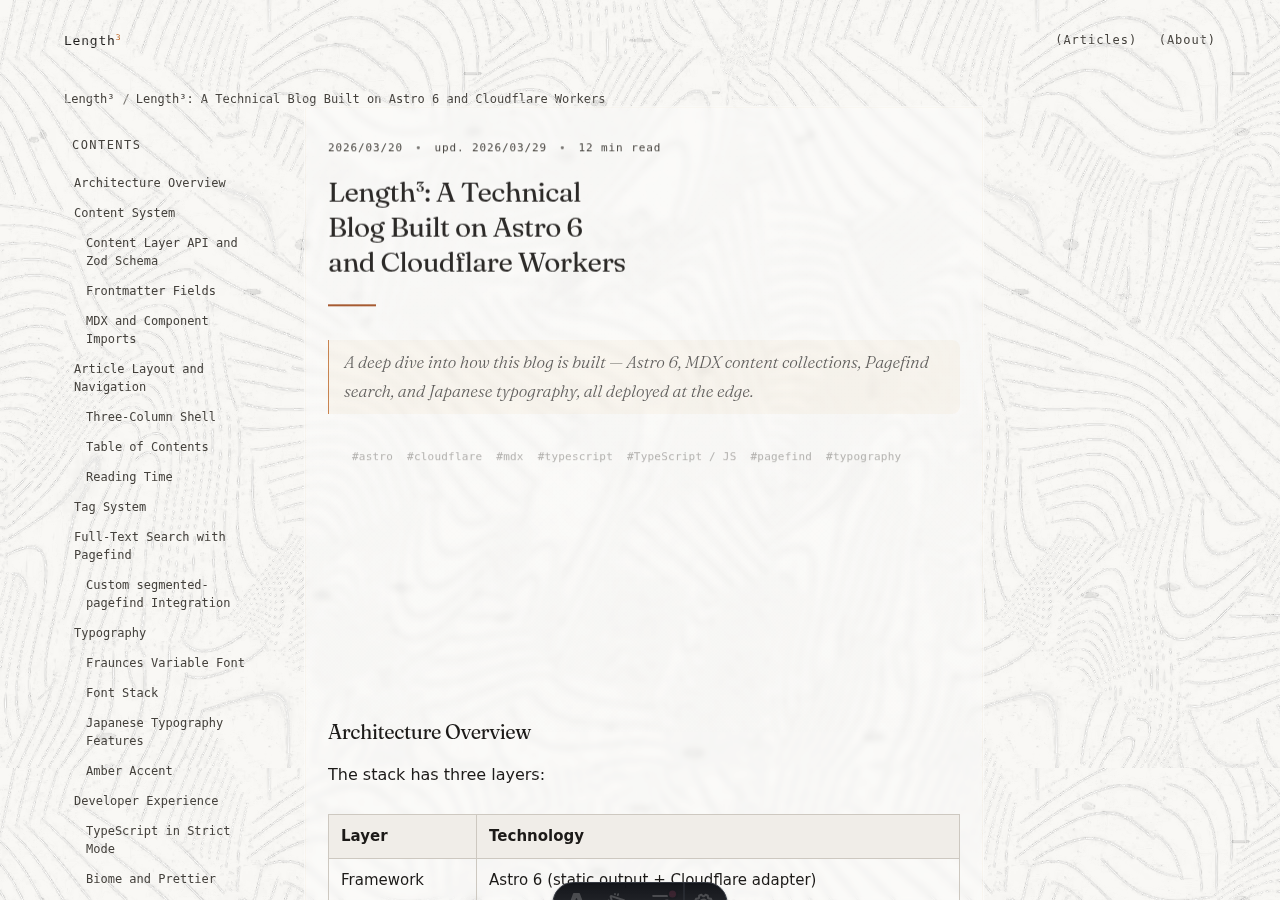
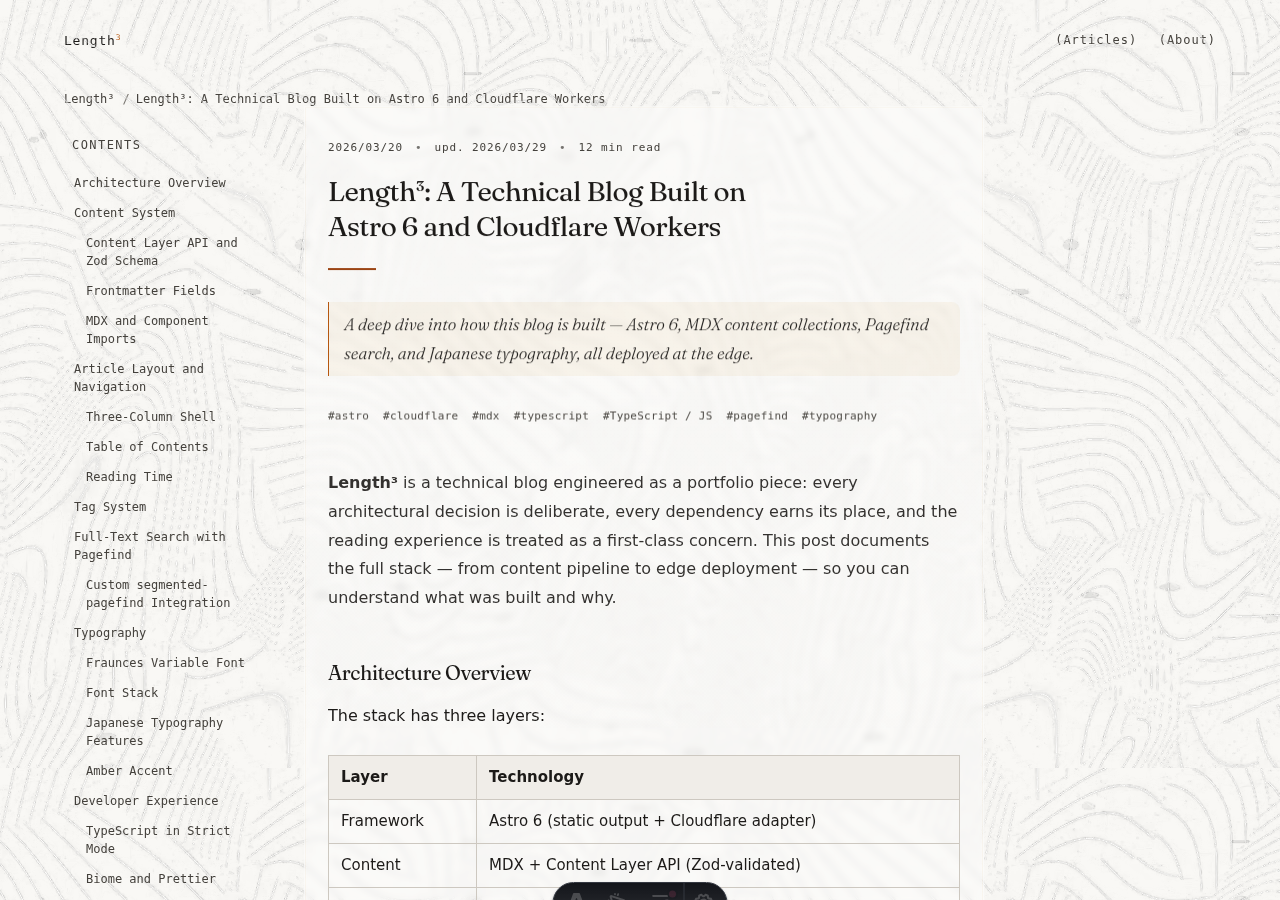
Align the article header with its column and stop the layout wobble
背景テクスチャには触れず、版面まわりに残っていたずれを直す。

- 記事 H1 の `max-width: 22ch` を外した。ch は「0」の字幅なので Fraunces で
  22ch = 308px、全角なら 11 字にしかならない。本文が 632px で組まれている
  横でタイトルだけが列の半分の幅に収まり、和文タイトルが 4〜5 行へ折り返して
  いた（実測 140px → 70px の 2 行）。字数の制御は列幅と balance に任せる
- 記事ヘッダのタグ行が本文より 24px 右にずれていた。<ul> なので
  `.prose ul` の 1.5rem インデントを受けており、prose レイヤーは layout
  より後なので打ち消しも同じレイヤーに置く。下マージンも本文用の 24px が
  効いていたので、ヘッダ末尾の余白はヘッダ自身の padding だけに揃えた
- パンくずが body の縦 flex 内で shrink-to-fit になり、タグページでは
  `margin-inline: auto` で中央寄せの短冊になっていた（x=586、本文は x=324）。
  幅を宣言して版面に揃え、--measure のページ用に修飾子を足した
- パンくずを 1 行に固定した。390px では折り返して "Length³" だけが 1 行目に
  残り、現在地が 2 行目へ落ちていた。溢れは既存の省略で吸収する
- 記事ページの右余白が 1024px で 16px の切れ端になっていた。3 列へ切り替える
  幅を 68rem に上げ、余白が 80px を割るなら畳む（spec §8）。あわせて 2 列の
  帯で prose 列を --measure で止め、本文の実測幅が 635 → 680 → 637 と
  揺れていたのを 632px 一定にした
- 記事末尾のアクションを文字幅で止めた。列いっぱいだと "Copy link" と右端の
  › のあいだに 500px の空白が空いていた。読了状況の 3 断片も 1 行に並べる
- Share の行頭記号が × で、Copy link の — と揃っていなかったので統一した
- 前の commit で消えた .tag-pill--quiet への参照と、枠と一緒に消えた
  border-color / background-color の transition を掃除した

pnpm lint / check / test:unit (10 files, 102 tests) / e2e (6 passed) 通過。
docs のスクリーンショットは再生成した。

Claude-Session: https://claude.ai/code/session_01LaSeo7pCYsjGAyx8PCnChu

diff --git a/src/styles/layout.css b/src/styles/layout.css
@@ -116,7 +116,11 @@
     padding-bottom: 4rem;
   }
 
+  /* 3 列のときの prose 列と同じ幅で止める。2 列の帯だけ 1fr のまま伸びると、
+     本文の実測幅が 635 → 680 → 637 と幅によって揺れていた。読み幅は
+     --measure から左右の padding を引いた 632px でどの幅でも一定にする。 */
   .prose-area {
+    max-width: var(--measure);
     padding-inline: clamp(1rem, 2vw, 1.5rem);
   }
 
@@ -152,7 +156,10 @@
   }
 }
 
-@media (min-width: 60rem) {
+/* 3 列に切り替える幅。右の余白が 80px を割るなら列ごと畳む（spec §8）。
+   1088px = ガター 2×24 + TOC 200 + gap 40 + 版面 680 + gap 40 + 余白 80。
+   60rem で切り替えていたときは 1024px で余白が 16px の切れ端になっていた。 */
+@media (min-width: 68rem) {
   .article-shell {
     grid-template-columns: var(--toc-width) minmax(0, var(--measure)) minmax(0, 1fr);
     grid-template-areas: 'toc prose empty';
@@ -255,10 +262,7 @@
   letter-spacing: 0.02em;
   color: var(--ink-2);
   touch-action: manipulation;
-  transition:
-    color var(--transition-fast),
-    border-color var(--transition-fast),
-    background-color var(--transition-fast);
+  transition: color var(--transition-fast);
 }
 
 .tag-pill:hover,
@@ -277,11 +281,12 @@
 
 @media (pointer: coarse) {
   /* 視覚サイズはそのまま保ち、::before でタッチターゲット 44px を確保する。
-     min-height で pill 全体を膨らませると見た目が重くなる。 */
-  .tag-pill:not(.tag-pill--quiet) {
-    min-height: 1.375rem; /* base に戻す */
+     min-height でタグ自体を膨らませると行が重くなる。 */
+  .tag-pill {
+    min-height: 1.375rem;
   }
-  .tag-pill:not(.tag-pill--quiet)::before {
+
+  .tag-pill::before {
     content: '';
     position: absolute;
     inset: -0.75rem -0.25rem; /* 上下 12px 拡張 → 合計 ~46px */

diff --git a/src/styles/typography.css b/src/styles/typography.css
@@ -118,6 +118,14 @@
   }
 }
 
+/* 記事ヘッダのタグ行は <ul> なので .prose ul の 1.5rem インデントを受け、
+   タグだけが本文・見出し・リードより 24px 右へずれていた。prose レイヤーは
+   layout レイヤーより後なので、打ち消しはここに置く必要がある。 */
+.prose .tag-pill-list {
+  padding-left: 0;
+  margin-bottom: 0;
+}
+
 /* Tag pills inside prose — override link styles so pills match the index page */
 .prose .tag-pill {
   color: var(--ink-2);
@@ -276,14 +284,14 @@ rt {
   color: var(--surface-separator);
 }
 
-/* モバイルでは 18ch の幅制限と 28px が重なると長い日本語タイトルが 5 行に
-   なる。狭い画面では列幅いっぱいを使い、サイズを 24px に落として 2〜3 行に
-   収める。28px と 22ch は 45rem 以上でのみ適用する。 */
+/* 見出しは本文と同じ列幅いっぱいを使う。ch は「0」の字幅なので、Fraunces の
+   22ch は 308px ＝ 全角 11 字にしかならず、本文が 632px で組まれている横で
+   タイトルだけが列の半分の幅で 4〜5 行に折り返していた。1 行の字数は列幅と
+   text-wrap: balance に任せる。 */
 .article-header h1 {
   font-size: 1.5rem;
   line-height: 1.3;
   margin-bottom: 0.5rem;
-  max-width: none;
 }
 
 /* margin only — shape is provided by .amber-rule (global.css) */
@@ -329,7 +337,6 @@ rt {
   .article-header h1 {
     font-size: 1.75rem;   /* spec §2: Article H1 = 28px */
     line-height: 1.25;
-    max-width: 22ch;
     margin-bottom: 0.5rem;
   }
 

diff --git a/src/styles/components/breadcrumb.css b/src/styles/components/breadcrumb.css
@@ -1,9 +1,11 @@
 /* Breadcrumb */
-/* Breadcrumb */
 .breadcrumb {
   font-family: var(--font-mono);
   font-size: 0.6875rem;
   color: var(--ink-2);
+  /* body が縦 flex なので、幅を宣言しないと margin-inline: auto が
+     shrink-to-fit を招き、パンくずだけが中央寄せの短冊になる。 */
+  width: 100%;
   max-width: var(--layout-max-width);
   margin: 0 auto;
   padding-top: 0.5rem;
@@ -11,13 +13,19 @@
     max(var(--page-gutter), env(safe-area-inset-right));
 }
 
+/* 版面が --measure のページ（タグ一覧など）では、パンくずも同じ列に揃える。 */
+.breadcrumb--measure {
+  max-width: var(--measure);
+}
+
 .breadcrumb ol {
   display: flex;
-  align-items: center;
-  gap: 0.25rem 0.5rem;
+  align-items: baseline;
+  gap: 0.5rem;
   justify-content: flex-start;
-  flex-wrap: wrap;
-  row-gap: 0.25rem;
+  /* 1 行に収める。折り返すと "Length³" だけが 1 行目に残り、現在地が
+     2 行目に落ちる。溢れは .crumb-current の省略で吸収する。 */
+  flex-wrap: nowrap;
   list-style: none;
   padding: 0;
   margin: 0;
@@ -28,7 +36,15 @@
   align-items: baseline;
   gap: 0.375rem;
   min-width: 0;
-  max-width: 100%;
+}
+
+/* 先行のセグメントは縮めない。縮むのは末尾の現在地だけ。 */
+.breadcrumb li:not(:last-child) {
+  flex: 0 0 auto;
+}
+
+.breadcrumb li:last-child {
+  flex: 0 1 auto;
 }
 
 .sep {

diff --git a/src/styles/components/article-actions.css b/src/styles/components/article-actions.css
@@ -27,11 +27,15 @@
   gap: 0.25rem;
 }
 
+/* 行は文字幅で止める。列いっぱいに伸ばすと "Copy link" と右端の ›
+   のあいだに 500px の空白が空き、行の終わりが読めなくなる。 */
 .action-row {
   display: flex;
   align-items: center;
+  align-self: flex-start;
   gap: 0.5rem;
-  padding: 1rem 0;
+  min-width: 11rem;
+  padding: 0.75rem 0;
   background: none;
   border: none;
   cursor: pointer;
@@ -39,7 +43,6 @@
   font-size: 0.75rem;
   color: var(--ink-2);
   text-align: left;
-  width: 100%;
   transition: color var(--transition-fast);
 }
 
@@ -64,14 +67,16 @@
 }
 
 .action-arrow {
-  color: var(--rule);
+  color: var(--ink-3);
   font-size: 1rem;
 }
 
+/* 3 つとも同じ読了状況の断片なので、縦に積まず 1 行に並べる。 */
 .reading-stats {
   display: flex;
-  flex-direction: column;
-  gap: 0.25rem;
+  flex-wrap: wrap;
+  align-items: baseline;
+  gap: 0.25rem 1.25rem;
 }
 
 .stat-row {
